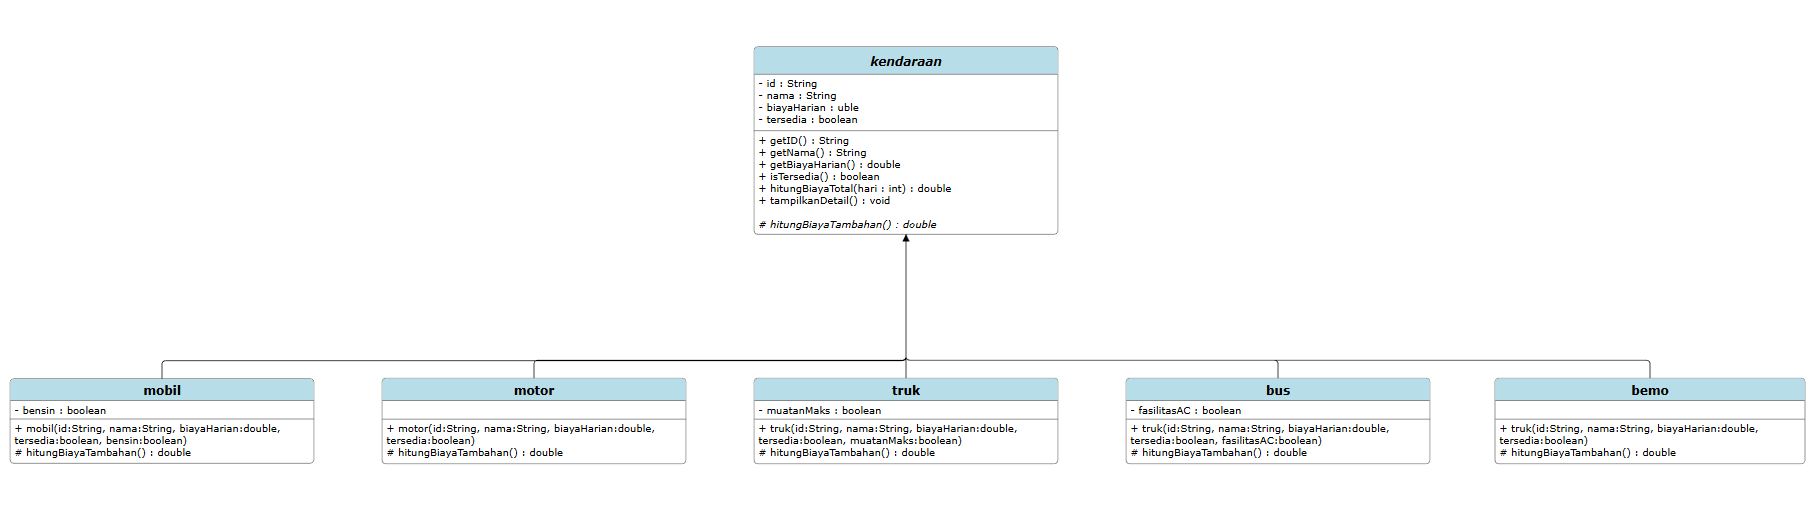
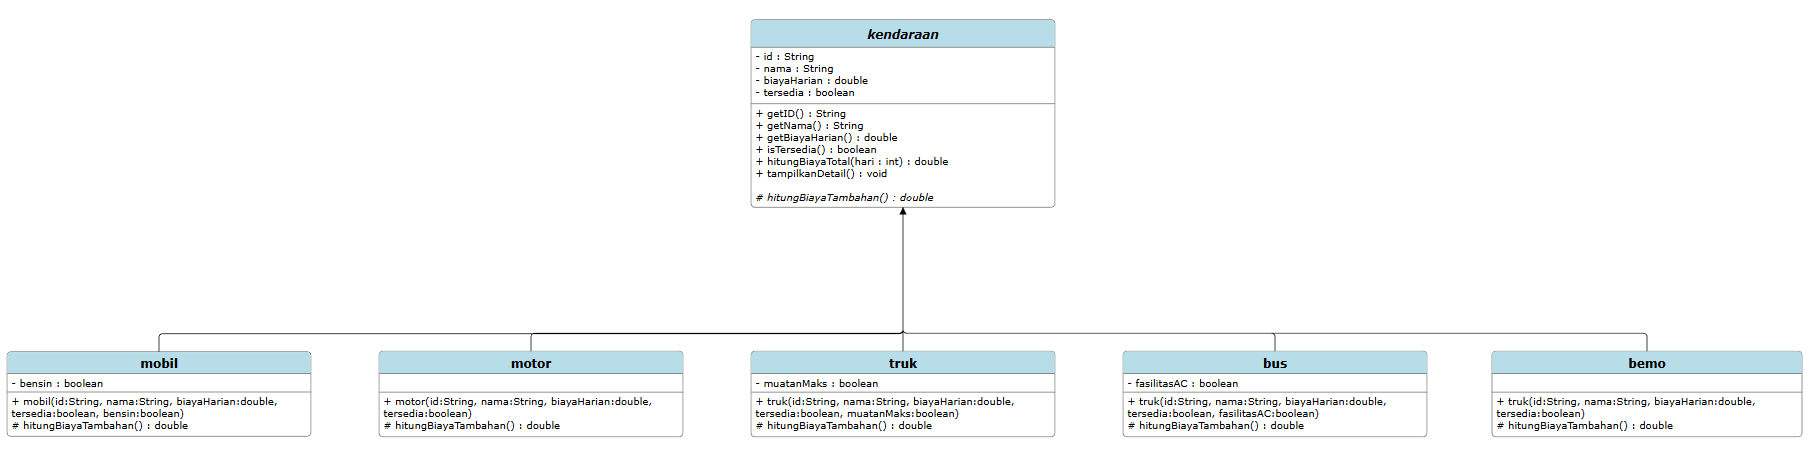
Membenarkan grafik dan menambahkan class abstract kendaraan

Changed region(s): [[0.0, 0.688, 1.0, 0.9274], [0.4011, 0.0299, 0.5862, 0.4786]]

diff --git a/src/kendaraan.java b/src/kendaraan.java
@@ -1,0 +1,48 @@
+package src;
+
+public abstract class kendaraan {
+    // Atribut
+    private String id;
+    private String nama;
+    private double biayaHarian;
+    private boolean tersedia;
+
+    // Constructor
+    public kendaraan(String id, String nama, double biayaHarian, boolean tersedia) {
+        this.id = id;
+        this.nama = nama;
+        this.biayaHarian = biayaHarian;
+        this.tersedia = tersedia;
+    }
+
+    // Method
+    public String getID() {
+        return this.id;
+    }
+
+    public String getNama() {
+        return this.nama;
+    }
+
+    public double getBiayaHarian() {
+        return this.biayaHarian;
+    }
+
+    public boolean isTersedia() {
+        return this.tersedia;
+    }
+
+    public double hitungBiayaTotal(int hari) {
+        return hari * this.biayaHarian;
+    }
+
+    public void tampilkanDetail() {
+        System.out.println( "ID: " + this.id +
+                            "\nNama: " + this.nama +
+                            "\nBiaya Harian: " + this.biayaHarian +
+                            "\nStatus: " + (this.tersedia ? "Tersedia" : "Tidak Tersedia"));
+    }
+
+    // Method abstract
+    protected abstract double hitungBiayaTambahan();
+}
